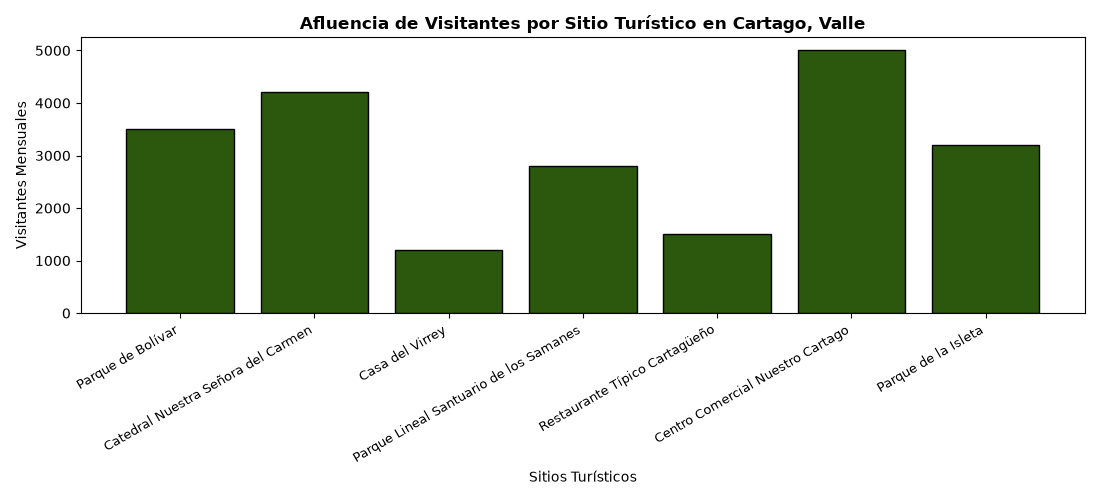
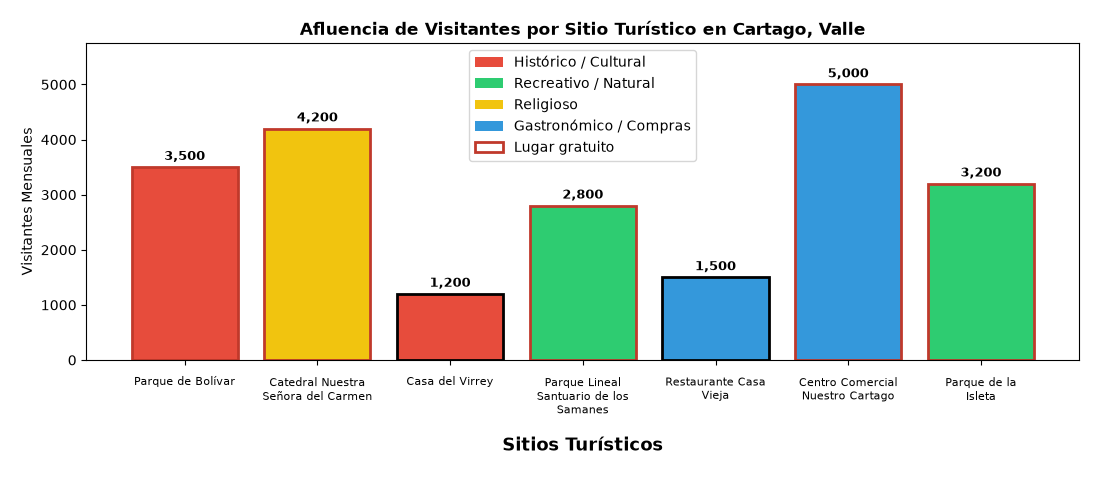
Actualiza proyecto TurismoCartago IA

diff --git a/src/eda_proyecto.py b/src/eda_proyecto.py
@@ -1,6 +1,9 @@
 import os
+import textwrap
+
 import numpy as np
 import matplotlib.pyplot as plt
+from matplotlib.patches import Patch
 
 def mostrar_resumen(datos):
     visitantes = np.array([x["visitantes_mes"] for x in datos])
@@ -18,18 +21,38 @@ def mostrar_resumen(datos):
     print("=" * 60 + "\n")
 
 def generar_grafico(datos, output_dir="graficos"):
-    nombres = [x["nombre"] for x in datos]
+    nombres = [textwrap.fill(x["nombre"], width=18) for x in datos]
     visitantes = [x["visitantes_mes"] for x in datos]
+    colores_categoria = {
+        "Histórico": "#e74c3c",
+        "Cultural": "#e74c3c",
+        "Recreativo": "#2ecc71",
+        "Religioso": "#f1c40f",
+        "Gastronomía": "#3498db",
+        "Compras": "#3498db",
+    }
+    colores = [colores_categoria[x["categoria"]] for x in datos]
+    bordes = ["#c0392b" if x["precio"] == 0 else "black" for x in datos]
 
     os.makedirs(output_dir, exist_ok=True)
     
-    plt.figure(figsize=(11, 5))
-    plt.bar(nombres, visitantes, color='#2b580c', edgecolor='black')
-    plt.title("Afluencia de Visitantes por Sitio Turístico en Cartago, Valle", fontsize=12, fontweight='bold')
-    plt.xlabel("Sitios Turísticos", fontsize=10)
-    plt.ylabel("Visitantes Mensuales", fontsize=10)
-    plt.xticks(rotation=30, ha='right', fontsize=9)
-    plt.tight_layout()
+    figura, eje = plt.subplots(figsize=(11, 5))
+    barras = eje.bar(nombres, visitantes, color=colores, edgecolor=bordes, linewidth=2)
+    eje.set_title("Afluencia de Visitantes por Sitio Turístico en Cartago, Valle", fontsize=12, fontweight='bold')
+    eje.set_xlabel("Sitios Turísticos", fontsize=13, fontweight="bold", labelpad=14)
+    eje.set_ylabel("Visitantes Mensuales", fontsize=10)
+    eje.tick_params(axis="x", rotation=0, labelsize=8, pad=8)
+    eje.bar_label(barras, labels=[f"{valor:,}" for valor in visitantes], padding=3, fontsize=9, fontweight="bold")
+    eje.set_ylim(0, max(visitantes) * 1.15)
+    eje.legend(handles=[
+        Patch(facecolor="#e74c3c", label="Histórico / Cultural"),
+        Patch(facecolor="#2ecc71", label="Recreativo / Natural"),
+        Patch(facecolor="#f1c40f", label="Religioso"),
+        Patch(facecolor="#3498db", label="Gastronómico / Compras"),
+        Patch(facecolor="white", edgecolor="#c0392b", linewidth=2, label="Lugar gratuito"),
+    ])
+    figura.tight_layout(pad=1.5)
+    figura.subplots_adjust(bottom=0.28)
     
     ruta_imagen = os.path.join(output_dir, "visitantes_sitios.png")
     plt.savefig(ruta_imagen)

diff --git a/src/recomendador.py b/src/recomendador.py
@@ -2,11 +2,24 @@ def recomendar_con_ia(datos, categoria_filtro=None, solo_gratis=False):
     recomendaciones = []
     
     for sitio in datos:
+        if solo_gratis and sitio["precio"] != 0.0:
+            continue
+
         score = 0.0
         
         if categoria_filtro:
-            if categoria_filtro.lower() in sitio["categoria"].lower():
-                score += 50.0
+            if isinstance(categoria_filtro, (list, tuple, set)):
+                coincide_categoria = any(
+                    categoria.lower() in sitio["categoria"].lower()
+                    for categoria in categoria_filtro
+                )
+            else:
+                coincide_categoria = categoria_filtro.lower() in sitio["categoria"].lower()
+
+            if not coincide_categoria:
+                continue
+
+            score += 50.0
         else:
             score += 20.0
             
@@ -23,12 +36,3 @@ def recomendar_con_ia(datos, categoria_filtro=None, solo_gratis=False):
         
     recomendaciones_ordenadas = sorted(recomendaciones, key=lambda x: x["compatibilidad"], reverse=True)
     return recomendaciones_ordenadas
-
-    if filtrado.empty:
-        return df[df["precio_promedio"] <= presupuesto].head(3).copy()
-
-    recomendados = filtrado[filtrado["precio_promedio"] <= presupuesto].copy()
-    if recomendados.empty:
-        recomendados = filtrado.head(3).copy()
-
-    return recomendados.sort_values("precio_promedio").reset_index(drop=True)

diff --git a/src/main.py b/src/main.py
@@ -3,6 +3,7 @@ from cargar_datos import leer_datos
 from eda_proyecto import mostrar_resumen, generar_grafico
 from recomendador import recomendar_con_ia
 
+
 def main():
     ruta_csv = os.path.join(os.path.dirname(__file__), "..", "data", "sitios_turisticos_cartago.csv")
     
@@ -31,20 +32,20 @@ def main():
         opcion = input("\nSelecciona el número de tu opción (1-6): ").strip()
         
         if opcion == "6":
-            print("\n👋 ¡Gracias por usar TurismoCartago IA! Éxitos en tu presentación. 🌎")
+            print("\n👋 ¡Gracias por usar TurismoCartago IA! 🌎")
             break
             
         cat_filtro = None
         gratis_filtro = False
         
         if opcion == "1":
-            cat_filtro = "Cultural"
+            cat_filtro = ["Histórico", "Cultural"]
         elif opcion == "2":
             cat_filtro = "Recreativo"
         elif opcion == "3":
             cat_filtro = "Religioso"
         elif opcion == "4":
-            cat_filtro = "Gastronomia"
+            cat_filtro = ["Gastronomía", "Compras"]
         elif opcion == "5":
             gratis_filtro = True
             print("\n🔍 Analizando lugares con acceso gratuito...")
